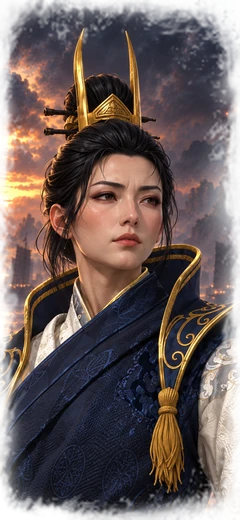
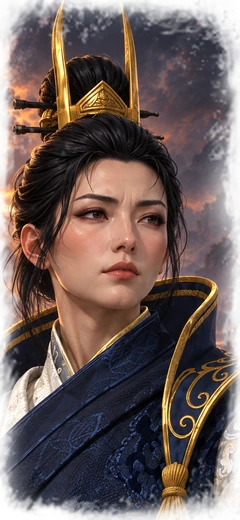
fix: use current admiral cards and categorize 1.3.0 changelog

diff --git a/scripts/build_art.py b/scripts/build_art.py
@@ -85,9 +85,10 @@ CHARS = {
     "samurai-taisho-02": "samurai_daisho/samurai_taisho_02_full.png",
     "samurai-taisho-03": "samurai_daisho/samurai_taisho_03_full.png",
     "miko": "miko/miko_head1_full.png",
-    "fleet-admiral-01": "admiral/admiral_01_full.png",
-    "fleet-admiral-02": "admiral/admiral_02_full.png",
-    "fleet-admiral-03": "admiral/admiral_03_full.png",
+    # 10-30 已进游戏的三席对齐母版；admiral 根目录 *_full.png 仍是旧构图。
+    "fleet-admiral-01": "admiral/old/vanguard_portraits_codex_20261030/card_a2_aligned_full.png",
+    "fleet-admiral-02": "admiral/old/paoling_portraits_codex_20261030/old_card_aligned_full.png",
+    "fleet-admiral-03": "admiral/old/yuchao_portraits_codex_20261030/card_b_aligned_full.png",
 }
 
 # 同伴横幅：除瑟兰娜使用完成事件的 panel 扩展图外，统一使用各自第一章正本。

diff --git a/content/releases/2026-11-15-v1.3.0.en.md b/content/releases/2026-11-15-v1.3.0.en.md
@@ -5,29 +5,36 @@ type: content
 tags: [main]
 ---
 
+
+### Added
+
+- Added the fifth Expedition Companion, Legendary Lord Ryuka:
+  - She has a unique merchant-ship horde building tree, starting with a tier 1 main cabin and 1 growth point, with a maximum building tier of 4. Companion chapters II and III each award her ship 2 growth points.
+  - Added three exclusive units: Shiokaze Armed Company (Hand Cannons), Shiokaze Armed Company (Flamethrowers), and Shiokaze Armed Company (Land Ship).
+- Added a Japanese translation pack.
+
 ### Changes
 
 - Sayo's Divine Protection: ward save +15 → +10; radius 45 m → 35 m.
 - The Miko's Misogi, normal / overcast: healing targets unlimited → at most 4 units; radius 45 / 55 m → 35 m for both; duration 20 / 26 seconds → 16 / 22 seconds; Winds of Magic cost 12 / 18 → 13 / 18 (with mastery, 11 / 16 → 12 / 16).
 - The Cult of Tsien-Tsin's second starting army: Chaos Warriors of Tzeentch (Halberds) 1 → 2 units; total units excluding the general 12 → 13.
-- Added the fifth Expedition Companion, Legendary Lord Ryuka:
-  - She has a unique merchant-ship horde building tree, starting with a tier 1 main cabin and 1 growth point, with a maximum building tier of 4. Companion chapters II and III each award her ship 2 growth points.
-  - Added three exclusive units: Shiokaze Armed Company (Hand Cannons), Shiokaze Armed Company (Flamethrowers), and Shiokaze Armed Company (Land Ship).
 - Reworked the Expedition Companions panel. A button on its left switches back to the old panel, and MCT can restore the old character illustrations.
 - Companion Lord / Hero conversion is disabled by default. MCT can enable conversion for Sayo, Tachibana Naotora, Serena and Ibuki; conversion to Lord still requires the Devoted Bond tier.
 - Replaced all companion portraits and chapter event illustrations. Every chapter now has its own animated illustration.
 - Updated Shen Changfeng's portrait and Lord-selection artwork, adjusted model detail switching distances, and fixed several model issues affecting Ryuka and the Shiokaze Armed Company.
-- Added a Japanese translation pack.
-- Fixed a problem that could prevent Shen Changfeng from being recruited after confederation.
 - The three ranks of Admiral's Renown for Shen Changfeng, the Vanguard, Artillery and Cavalry Admirals, and Yin Ling now require character ranks 8 / 12 / 16, instead of having no rank requirement.
-- Fixed Shen Changfeng starting with a generic appearance when used with [Instant Quest Items (Without Battles)](https://steamcommunity.com/sharedfiles/filedetails/?id=2790621216).
 - Serena's spells, in both Hero and Lord forms: Ladrielle's Shroud → Harmonic Convergence; Walk Between Worlds → Urannon's Thunderbolt; Mistress of the Deeps → Fiery Convocation.
-- Fixed the Jade Sea Admiralty's bottom recruitment buttons being cut off at some resolutions and UI scale settings.
-- Fixed other Legendary Lords temporarily disappearing from the recruitment tab while Shen Changfeng or Yin Ling awaited recruitment.
 - Moved the Lord red-line bonuses for Oceanids and Sea Elementals to Stone Gaze.
 - Updated short and long campaign victory rewards:
   - Short victory: the unique Samurai Taisho Akashi Mitsuhide and other rewards.
   - Long victory: recruitment, replenishment, diplomacy and caravan bonuses depending on the chosen route.
+
+### Fixes
+
+- Fixed a problem that could prevent Shen Changfeng from being recruited after confederation.
+- Fixed Shen Changfeng starting with a generic appearance when used with [Instant Quest Items (Without Battles)](https://steamcommunity.com/sharedfiles/filedetails/?id=2790621216).
+- Fixed the Jade Sea Admiralty's bottom recruitment buttons being cut off at some resolutions and UI scale settings.
+- Fixed other Legendary Lords temporarily disappearing from the recruitment tab while Shen Changfeng or Yin Ling awaited recruitment.
 - Added the vanilla Leadbelchers' firing sound to the Kunikuzushi Oni.
 - Fixed the Mirror-Mountain Miko's Hamaya, Senbonzakura, Misogi, Sealing Ofuda and Spirited Away not benefiting from spell intensity, for both normal and overcast versions.
 - On loading an older save, Ibuki now receives the Oni Magatama and Nameless Odachi if he has reached their required ranks but has not received them.

diff --git a/content/releases/2026-11-15-v1.3.0.zh.md b/content/releases/2026-11-15-v1.3.0.zh.md
@@ -5,30 +5,37 @@ type: content
 tags: [main]
 ---
 
-### 更新内容
+
+### 新增
+
+- 新增第 5 位远征同伴、传奇领主「琉華」：
+  - 拥有独特的商船游牧建筑树，招揽时自带一本主舱与 1 发展点，最高四本；同伴任务第贰、叁章各奖励商船 2 发展点。
+  - 新增三种专属兵种：潮風武装团（手炮）、潮風武装团（喷火器）、潮風武装团（陆行船）。
+- 新增日语翻译包。
+
+### 调整
 
 - 纱代「神明庇护」综合抗性：+15 → +10；范围：45 米 → 35 米。
 - 巫女法术「禊祓」基础／增幅治疗队数：不限 → 最多 4 队；半径：45／55 米 → 均为 35 米；持续时间：20／26 秒 → 16／22 秒；魔法之风消耗：12／18 → 13／18（精通后 11／16 → 12／16）。
 - 清宝天尊信徒开局第二支军团：奸奇混沌勇士（长戟）1 → 2 队，部队总数（不含主将）12 → 13 队。
-- 新增第 5 位远征同伴、传奇领主「琉華」：
-  - 拥有独特的商船游牧建筑树，招揽时自带一本主舱与 1 发展点，最高四本；同伴任务第贰、叁章各奖励商船 2 发展点。
-  - 新增三种专属兵种：潮風武装团（手炮）、潮風武装团（喷火器）、潮風武装团（陆行船）。
 - 远征同伴面板重置，可通过面板左侧按钮切换回旧版面板，并在 MCT 中切换旧版立绘。
 - 同伴的领主／英雄转换默认关闭，可在 MCT 中开启纱代、立花直虎、瑟兰娜与伊吹的转换；转任领主仍需羁绊达到「生死之交」。
 - 全部同伴的立绘与各章节事件插画重置，现每个章节均拥有独立的动态插画。
 - 更新沈长风头像与领主选择立绘，调整自制模型的远近细节切换距离，修复琉華与潮風武装团的部分模型问题。
-- 新增日语翻译包。
-- 修复合邦沈长风后可能无法正常招募的问题。
 - 沈长风、先登、炮令、驭潮与殷翎的「提督威名」三阶可加点等级由不限调整为 8／12／16 级。
-- 修复与 [Instant Quest Items (Without Battles)](https://steamcommunity.com/sharedfiles/filedetails/?id=2790621216) 同时启用时，开局沈长风变成大众脸的问题。
 - 瑟兰娜（英雄与领主形态）法术调整：拉德莉莉之麾 → 和音汇集，寰宇步虚 → 尤瑞诺闪电箭，深海情人 → 万焰燃集。
-- 修复水师府在部分分辨率及界面缩放设置下，底部招募等按钮显示不全的问题。
-- 修复沈长风、殷翎等待招募时，其他传奇领主在招募页签中暂时消失的问题。
 - 领主红线纯水精魂与海元素加成移动至「坚岩凝视」。
 - 更新短期与长期胜利奖励，
 
   - 短期胜利：特殊武士大将明石光英及其他奖励
   - 长期胜利：按路线提供招募、补兵、外交和商队加成。
+
+### 修复
+
+- 修复合邦沈长风后可能无法正常招募的问题。
+- 修复与 [Instant Quest Items (Without Battles)](https://steamcommunity.com/sharedfiles/filedetails/?id=2790621216) 同时启用时，开局沈长风变成大众脸的问题。
+- 修复水师府在部分分辨率及界面缩放设置下，底部招募等按钮显示不全的问题。
+- 修复沈长风、殷翎等待招募时，其他传奇领主在招募页签中暂时消失的问题。
 - 为国崩巨鬼补上与原版喷铅者一致的开炮声。
 - 修复镜山巫女法系的破魔矢、千本樱、禊祓、封魔札和神隐无法获得法术强度加成的问题，涵盖普通版与增幅版。
 - 读取旧存档时，伊吹会补领已达到等级要求但尚未获得的「鬼族勾玉」和「无名」。
